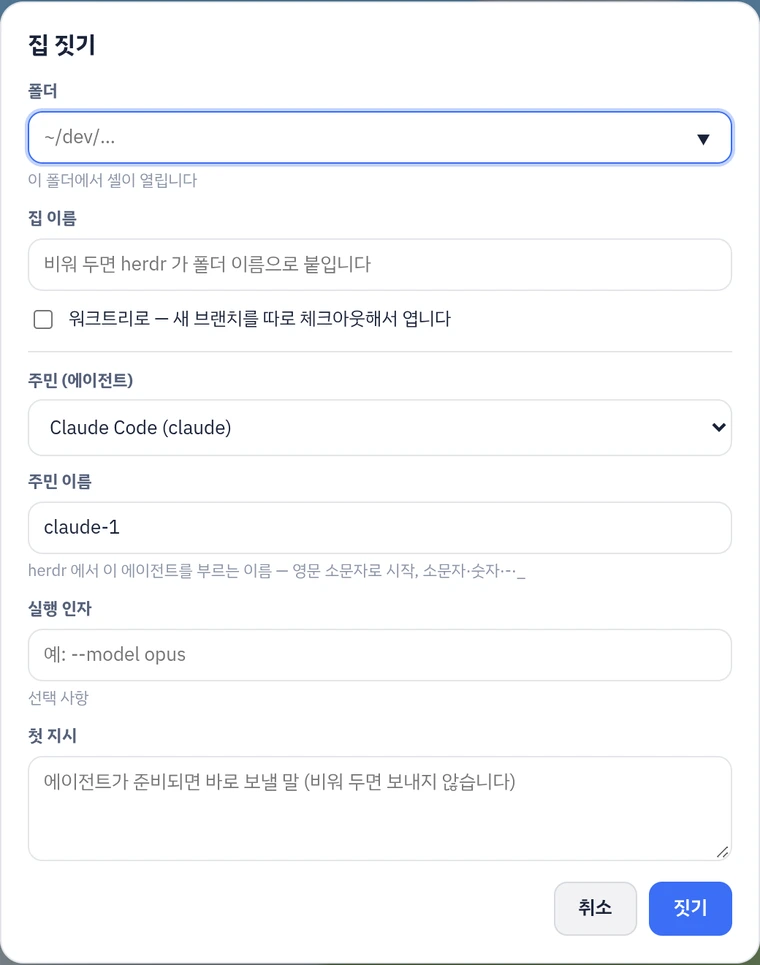
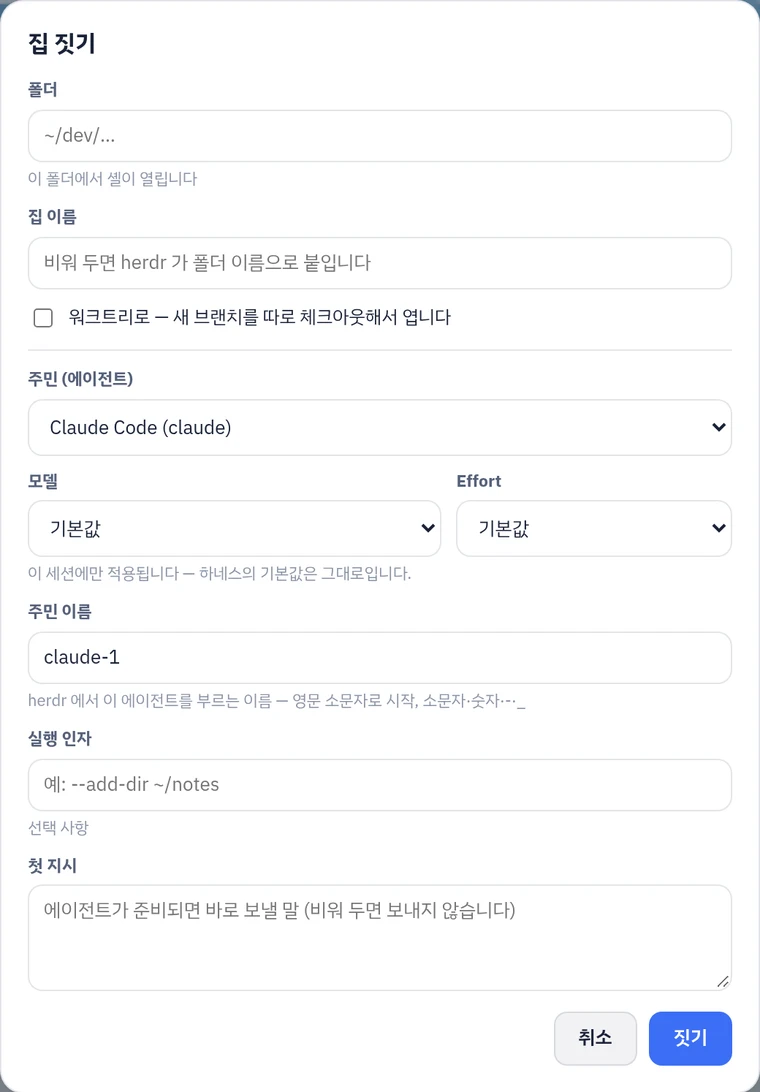
README·홈페이지: 모델·effort 고르기를 적고 집 짓기 그림을 다시 찍는다
집 짓기 대화상자에 모델·Effort 줄이 생기고 실행 인자 예시가 바뀌어, mock-herdr 로 다시 찍었다(높이 965 → 1092).

diff --git a/docs/index.html b/docs/index.html
@@ -506,12 +506,12 @@ html.js .reveal.in { opacity: 1; transform: none; }
       <p class="kicker">Build</p>
       <h2><span lang="ko">새 일의 시작은 집 짓기</span><span lang="en">Start new work by building a house</span></h2>
       <div class="head" style="margin:0"><p>
-        <span lang="ko">폴더, 이름, 워크트리 여부, 들일 에이전트와 첫 지시까지 한 번에 정합니다. 지어 둔 집의 문패를 누르면 주민과 탭을 더하거나, 이름을 바꾸거나, 철거할 수 있습니다. 닫을 때는 함께 꺼지는 에이전트를 먼저 보여 주고 확인을 받습니다.</span>
-        <span lang="en">Folder, name, worktree or not, the agent to add and its first prompt, in one go. Click a house sign to add residents and tabs, rename it or demolish it. Closing anything lists the agents that will stop with it and asks first.</span>
+        <span lang="ko">폴더, 이름, 워크트리 여부, 들일 에이전트와 그 모델·effort, 첫 지시까지 한 번에 정합니다. 지어 둔 집의 문패를 누르면 주민과 탭을 더하거나, 이름을 바꾸거나, 철거할 수 있습니다. 닫을 때는 함께 꺼지는 에이전트를 먼저 보여 주고 확인을 받습니다.</span>
+        <span lang="en">Folder, name, worktree or not, the agent to add with its model and effort, and its first prompt, in one go. Click a house sign to add residents and tabs, rename it or demolish it. Closing anything lists the agents that will stop with it and asks first.</span>
       </p></div>
     </div>
     <figure class="reveal" style="max-width:420px;margin-inline:auto">
-      <div class="shot"><img src="img/build.webp" width="760" height="965" loading="lazy" alt="집 짓기 대화상자. 폴더, 집 이름, 워크트리, 주민(에이전트), 주민 이름, 실행 인자, 첫 지시 칸이 있다"></div>
+      <div class="shot"><img src="img/build.webp" width="760" height="1092" loading="lazy" alt="집 짓기 대화상자. 폴더, 집 이름, 워크트리, 주민(에이전트), 모델과 Effort, 주민 이름, 실행 인자, 첫 지시 칸이 있다"></div>
     </figure>
   </div>
 </section>

diff --git a/README.md b/README.md
@@ -33,6 +33,8 @@ herdr plugin install KyongSik-Yoon/agent-world
 
 아래 입력창(`C`)에 지시를 쓰고 Enter 로 보냅니다. 줄바꿈은 Shift+Enter 입니다. 보냈다고 바로 "전달됨"이라 하지 않고, 에이전트의 로그에 사용자 턴이 찍힌 것을 확인한 뒤에 알려 줍니다. 이미지는 입력창에 붙여 넣거나 끌어다 놓거나 `＋` 로 고르면 지시와 함께 갑니다(PNG·JPEG·GIF·WebP, 장당 10MB, 한 번에 8장).
 
+모델 줄 끝의 `바꾸기…`로 Claude Code·Codex 세션의 모델과 effort 를 바꿉니다. 바꾼 값은 그 세션에만 적용되고 다음에 띄우는 세션의 기본값은 그대로입니다. 슬래시 명령으로 바꾸면 기본값까지 바뀌기 때문에, Claude Code 는 `/model` 선택 창에서 "이 세션만"을 고르고 Codex 는 `/model … --reasoning=…` 을 보냅니다. 일하는 중이거나 질문에 막혀 있을 때, 입력창에 쓰던 글이 있을 때는 바꾸지 않습니다. Antigravity 는 그 세션에만 바꾸는 길이 없어 띄울 때만 고릅니다.
+
 `herdr 에서 열기`(Enter)를 누르면 herdr 화면이 그 pane 으로 넘어갑니다. Hyprland 에서는 터미널 창도 앞으로 나옵니다.
 
 ### 질문에는 그 자리에서 답하기
@@ -53,7 +55,7 @@ herdr plugin install KyongSik-Yoon/agent-world
 
 ### 집 짓기
 
-`＋ 집 짓기`(`B`)에서 폴더, 이름, 워크트리 여부, 들일 에이전트와 첫 지시까지 한 번에 정합니다. 지어 둔 집의 문패를 누르면 집 패널이 열리고, 여기서 `새 주민`, `새 탭`, 이름 바꾸기, 철거를 합니다. 셸 pane 은 집 앞에 단말기 모양으로 서 있습니다.
+`＋ 집 짓기`(`B`)에서 폴더, 이름, 워크트리 여부, 들일 에이전트와 그 모델·effort, 첫 지시까지 한 번에 정합니다. 모델과 effort 는 실행 인자(`--model`, `-m` 등)로 넘겨 그 세션에만 적용됩니다. 지어 둔 집의 문패를 누르면 집 패널이 열리고, 여기서 `새 주민`, `새 탭`, 이름 바꾸기, 철거를 합니다. 셸 pane 은 집 앞에 단말기 모양으로 서 있습니다.
 
 pane·탭·집을 닫을 때는 함께 꺼지는 에이전트를 먼저 보여 주고 확인을 받습니다.
 
@@ -189,6 +191,7 @@ herdr 에 붙어 있는 동안에는 herdr 의 에이전트만 보여 줍니다.
 ```
 server/   Bun 서버. herdr RPC 와 로그 tail 을 맡고, 스냅샷을 SSE 로 보낸다
   control.ts  조작 엔드포인트(지시·키 입력·터미널 미러·만들기·닫기)
+  models.ts   하네스별 모델 목록, 띄울 때의 모델 인자, 떠 있는 세션을 그 세션에만 바꾸기
   adapters/   하네스별 로그 리더
   text.ts     서버 메시지(한국어·영어)
   key.ts      접속 열쇠, 이 사용자만 읽을 수 있는 상태 파일

diff --git a/README.en.md b/README.en.md
@@ -34,9 +34,10 @@ opening `?lang=en`, or by setting `AGENT_WORLD_LANG=en`.
 | Show an image | Paste it into the input, drop it, or pick it with `＋` (PNG, JPEG, GIF, WebP; 10MB each, 8 at a time). It goes with the prompt. |
 | Answer a question or permission request | When an agent needs input, the real dialog appears at the top of the status window. Press the number or key it shows with the quick-key row. |
 | Use the terminal directly | `` ` `` opens it large. While it is open, keystrokes go straight to the pane. `Scrollback` shows earlier output; for agents with no scrollback (Claude Code in fullscreen mode) it sends PageUp/PageDown to page the app itself, and closing returns it to the live screen. Shift+Esc closes it. |
+| Switch model or effort | `Switch…` at the end of the model row, for Claude Code and Codex sessions. It applies to that session only; sessions you start later keep the harness defaults (the slash commands would change those too, so the world uses Claude Code's "this session only" picker option and Codex's `/model … --reasoning=…`). Not while the agent is working, waiting on a question, or has unsent text in its input. Antigravity has no session-only switch, so its model is picked at start. |
 | Mark a result as seen | Read a finished agent's status window and move on, and it is marked as seen and walks home (`D` does it at once; undo from the toast). |
 | Widen the status window | Drag its left edge. The width is remembered; double-click to reset. |
-| Build a house | `＋ New house` (`B`) — folder, name, worktree or not, the agent to add and its first prompt, in one go. |
+| Build a house | `＋ New house` (`B`) — folder, name, worktree or not, the agent to add with its model and effort, and its first prompt, in one go. The model and effort go in as launch flags (`--model`, `-m` …), so they apply to that session only. |
 | Add residents and tabs | Click a house sign for the house panel — `New resident`, `New tab`, rename, demolish. Shell panes stand in front of the house as small terminals. |
 | Close things | Closing a pane, tab or house lists the agents that will stop with it and asks first. |
 
@@ -201,6 +202,7 @@ under `server/adapters/` to read their logs.
 ```
 server/   Bun server — herdr RPC, log tailing, snapshots pushed over SSE
   control.ts  control endpoints (prompts, keys, terminal mirror, create, close)
+  models.ts   model lists per harness, launch flags, session-only model switches
   adapters/   log readers per harness
   text.ts     server messages in both languages
   key.ts      the access key and owner-only state files
